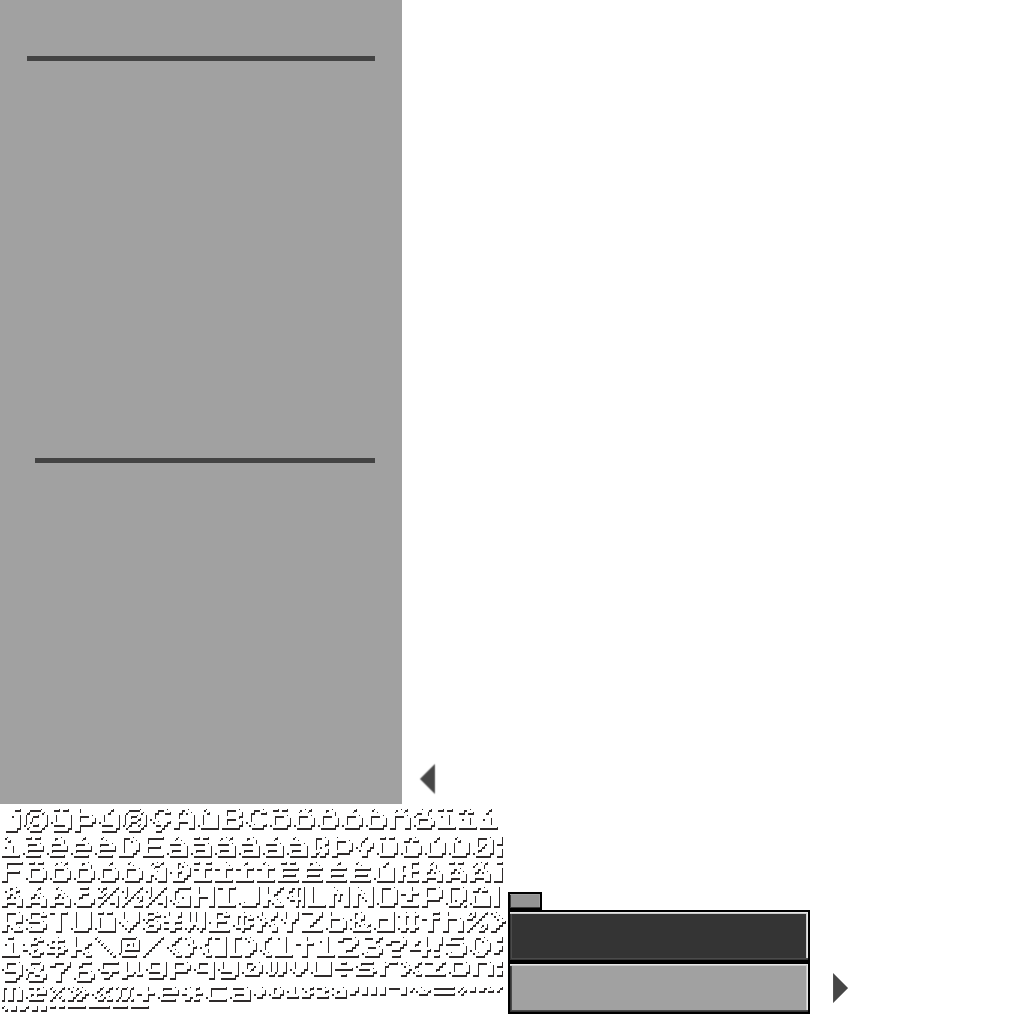
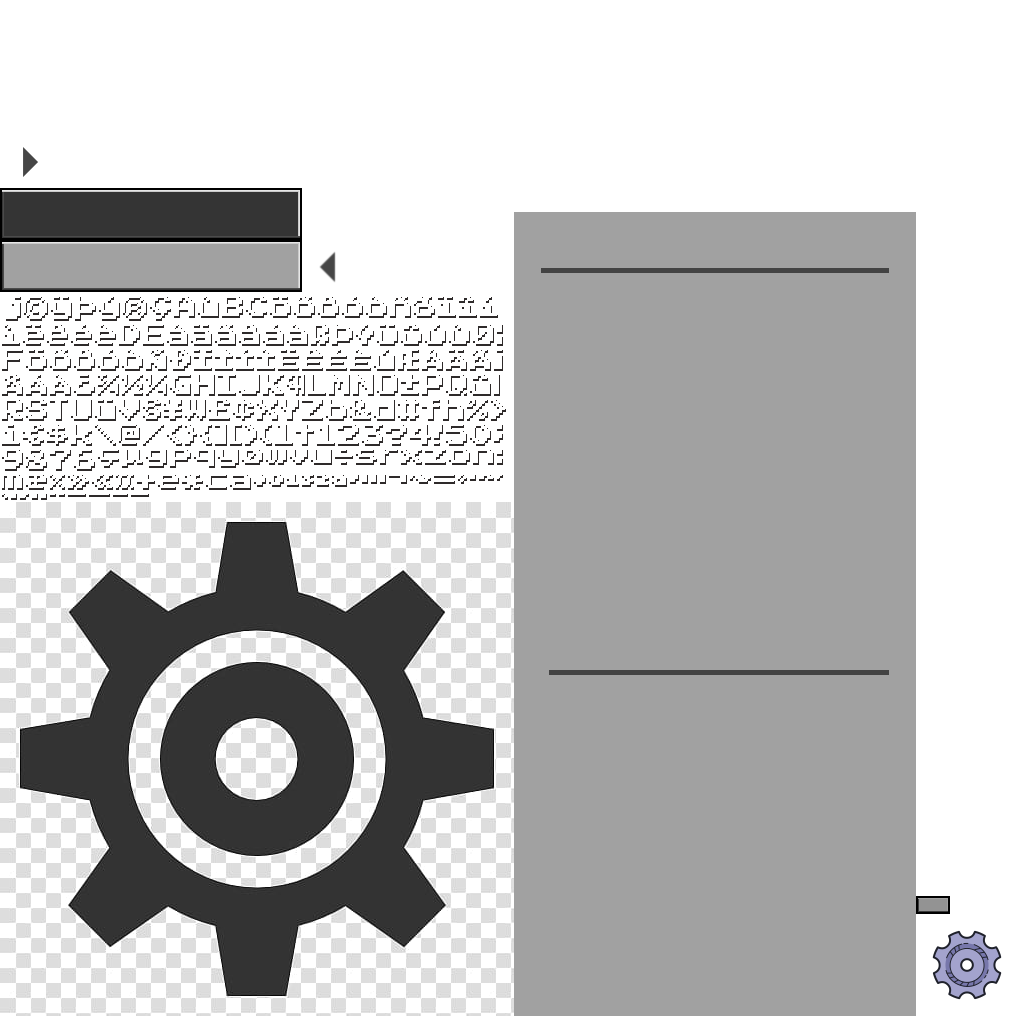
Add mute button to GameScreen

diff --git a/assets/CardSet.tsx b/assets/CardSet.tsx
@@ -1,5 +1,5 @@
 <?xml version="1.0" encoding="UTF-8"?>
-<tileset version="1.2" tiledversion="1.3.2" name="CardSet" tilewidth="400" tileheight="600" tilecount="16" columns="0">
+<tileset version="1.2" tiledversion="1.3.2" name="CardSet" tilewidth="400" tileheight="600" tilecount="17" columns="0">
  <grid orientation="orthogonal" width="1" height="1"/>
  <tile id="1">
   <image width="400" height="600" source="Card/background.png"/>
@@ -48,5 +48,8 @@
  </tile>
  <tile id="18">
   <image width="400" height="600" source="damage-token-both.png"/>
+ </tile>
+ <tile id="21">
+  <image width="400" height="600" source="sound.png"/>
  </tile>
 </tileset>

diff --git a/src/main/java/inf112/app/game/TiledMapStage.java b/src/main/java/inf112/app/game/TiledMapStage.java
@@ -56,22 +56,22 @@ public class TiledMapStage extends Stage {
     }
 
     private void instantiateButtons(TiledMapTileLayer layer){
-        boolean done = false;
         int x = layer.getWidth() - 1;
-        String type = "powerdown";
-        while(!done){
-            done = x == layer.getWidth() - 2;
-            TiledMapTileLayer.Cell cell = layer.getCell(x, 0);
-            GameButtonActor actor = new GameButtonActor(cell,layer,type,x,0,this);
-            actor.setBounds(x*cardWidth,0,cardWidth,cardHeight);
+        String[] type = {"powerdown", "lockin", "sound"};
+        for (int i = 0; i < type.length; i++){
+            int y = 0;
+            if (i == 2) {
+                y = 1;
+            }
+            TiledMapTileLayer.Cell cell = layer.getCell(x, y);
+            GameButtonActor actor = new GameButtonActor(cell, layer, type[i], x, y,this);
+            actor.setBounds(x * cardWidth, y, cardWidth, cardHeight);
             addActor(actor);
             EventListener eventListener = new TiledMapClickListener(actor);
             actor.addListener(eventListener);
-            actorGrid[x][0] = actor;
+            actorGrid[x][y] = actor;
             x--;
-            type = "lockIn";
         }
-
     }
 
     public void resize(int width, int height){

diff --git a/src/main/java/inf112/app/game/GameButtonActor.java b/src/main/java/inf112/app/game/GameButtonActor.java
@@ -42,6 +42,7 @@ public class GameButtonActor extends ButtonActor {
     @Override
     public void clickAction() {
         if(pushable) {
+            stage.getGame().sounds.buttonSound();
             pushable = false;
             layer.setCell(x, y, buttonDown);
             if ("lockIn".equals(type)) {
@@ -58,6 +59,14 @@ public class GameButtonActor extends ButtonActor {
                 }
             } else if ("powerdown".equals(type)) {
                 stage.getGame().getPlayer().getCharacter().setPowerDownNextRound(true);
+            } else if ("sound".equals(type)){
+                RoboRally game = stage.getGame();
+                if (game.backgroundMusic.isPlaying()) {
+                    game.backgroundMusic.pause();
+                }
+                else {
+                    game.backgroundMusic.play();
+                }
             }
         }
     }

diff --git a/src/main/java/inf112/app/screens/GameScreen.java b/src/main/java/inf112/app/screens/GameScreen.java
@@ -13,7 +13,6 @@ import com.badlogic.gdx.utils.viewport.StretchViewport;
 import com.kotcrab.vis.ui.widget.VisLabel;
 import com.kotcrab.vis.ui.widget.VisTable;
 import inf112.app.cards.CardSlot;
-import inf112.app.cards.ICard;
 import inf112.app.game.*;
 import inf112.app.map.Map;
 import inf112.app.objects.Robot;
